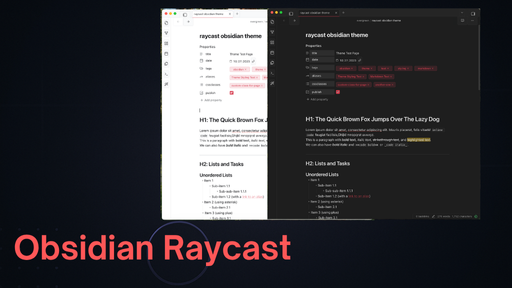
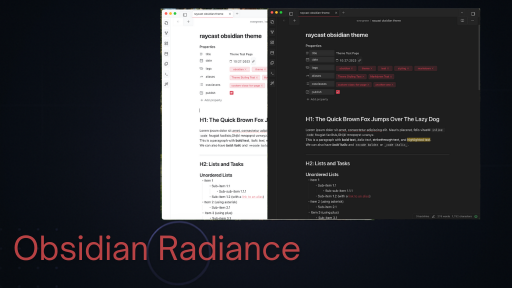
change from raycast to radiance

diff --git a/theme.css b/theme.css
@@ -1,6 +1,6 @@
 /* ---------------------------------------------------------------------------
 
-Raycast Modern Obsidian Theme - theme.css
+Radiance Modern Obsidian Theme - theme.css (inspired by Raycast).
 
 Sponsor my work:
 https://www.buymeacoffee.com/jabarid

diff --git a/README.md b/README.md
@@ -1,18 +1,18 @@
-# Raycast for Obsidian
+# Radiance for Obsidian
 
 A sleek, modern Obsidian theme inspired by the Raycast macOS application. This theme provides a clean, minimalist interface with carefully crafted UI elements and a signature red accent color that gives your notes a distinctive and professional appearance.
 
-> **Note:** This is an unofficial theme and is not affiliated with or endorsed by Raycast. It was created as a personal project inspired by the Raycast design aesthetic.
+> **Note:** This is an unofficial theme and is not affiliated with or endorsed by Raycast. It was created as a personal project inspired by the Radiance design aesthetic.
 
-![Raycast Theme Preview](preview.png)
+![Radiance Theme Preview](preview.png)
 
 ## Features
 
-- **Clean, modern interface** inspired by Raycast and Obsidian Minimal
+- **Clean, modern interface** inspired by Radiance and Obsidian Minimal
 - **Complete dark and light mode** support with carefully selected color palettes
 - **Custom styling** for all major UI components:
   - Workspace and sidebars
-  - Command palette (Raycast-inspired design)
+  - Command palette (Radiance-inspired design)
   - Buttons and interactive elements
   - Modals and prompts
   - Tags and metadata
@@ -28,15 +28,15 @@ A sleek, modern Obsidian theme inspired by the Raycast macOS application. This t
 1. Open Obsidian Settings
 2. Navigate to Appearance → Themes
 3. Click "Manage" button
-4. Search for "Raycast"
+4. Search for "Radiance"
 5. Click "Install and use"
 
 ### Method 2: Manual Installation
 
 1. Download the `theme.css` and `manifest.json` files
-2. Create a new folder called `Raycast` in your vault's `.obsidian/themes/` directory
+2. Create a new folder called `Radiance` in your vault's `.obsidian/themes/` directory
 3. Place the downloaded files in this folder
-4. Open Obsidian Settings → Appearance → Themes and select "Raycast"
+4. Open Obsidian Settings → Appearance → Themes and select "Radiance"
 
 ## Color Scheme
 
